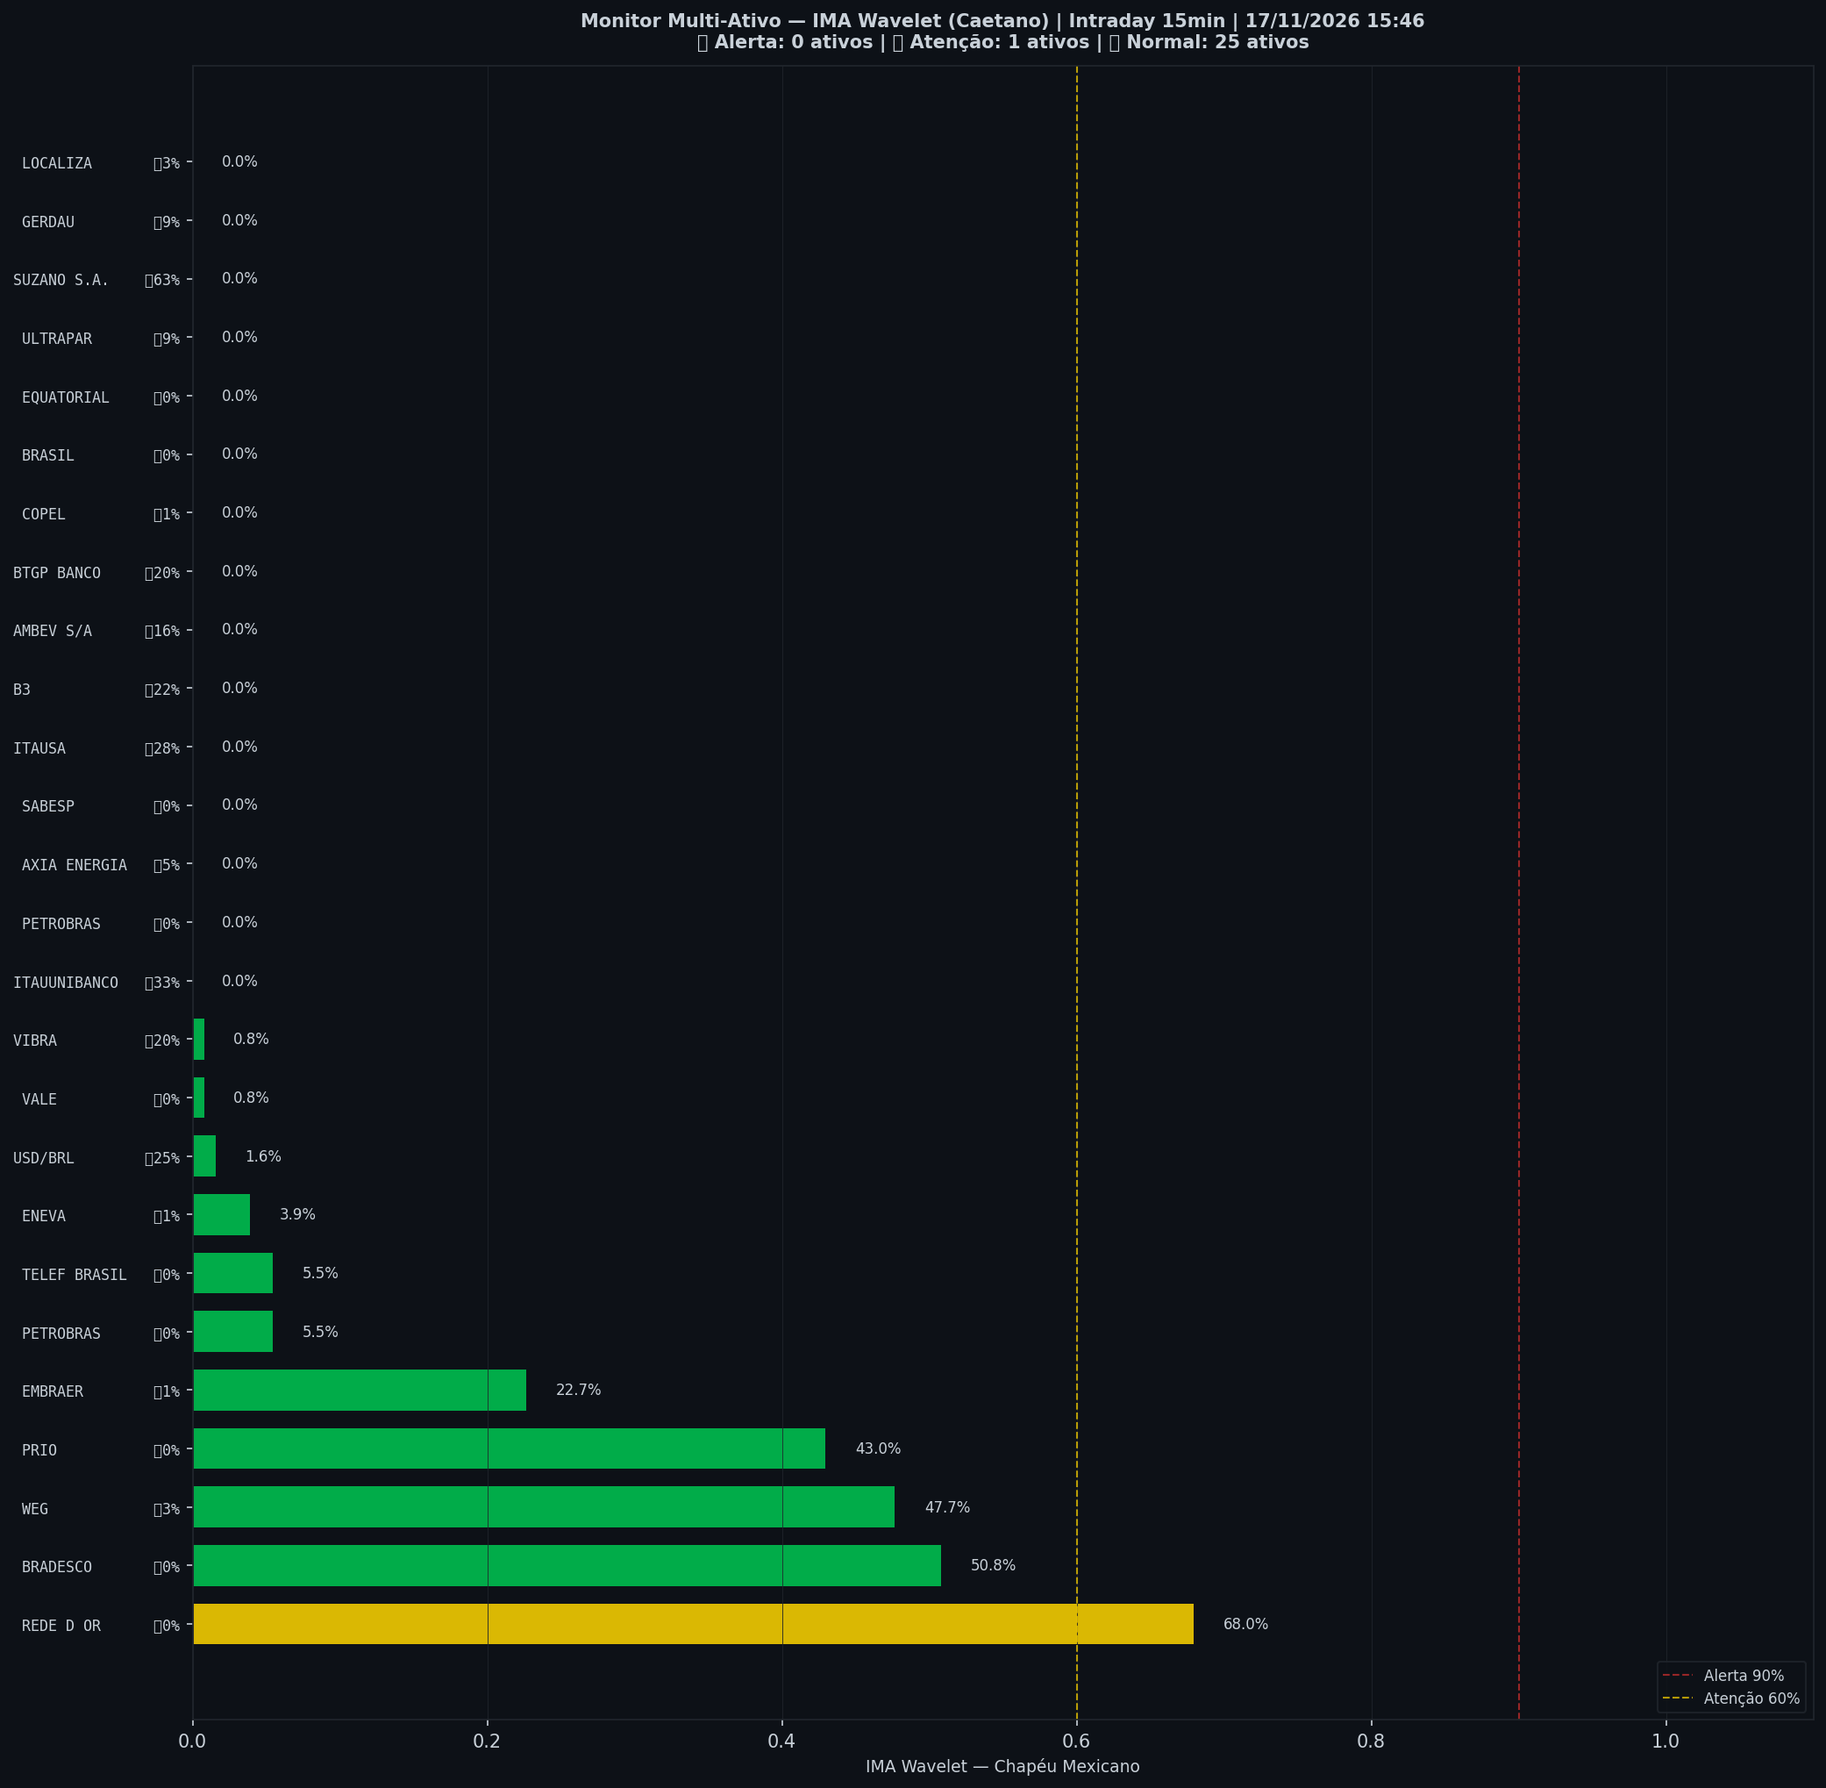
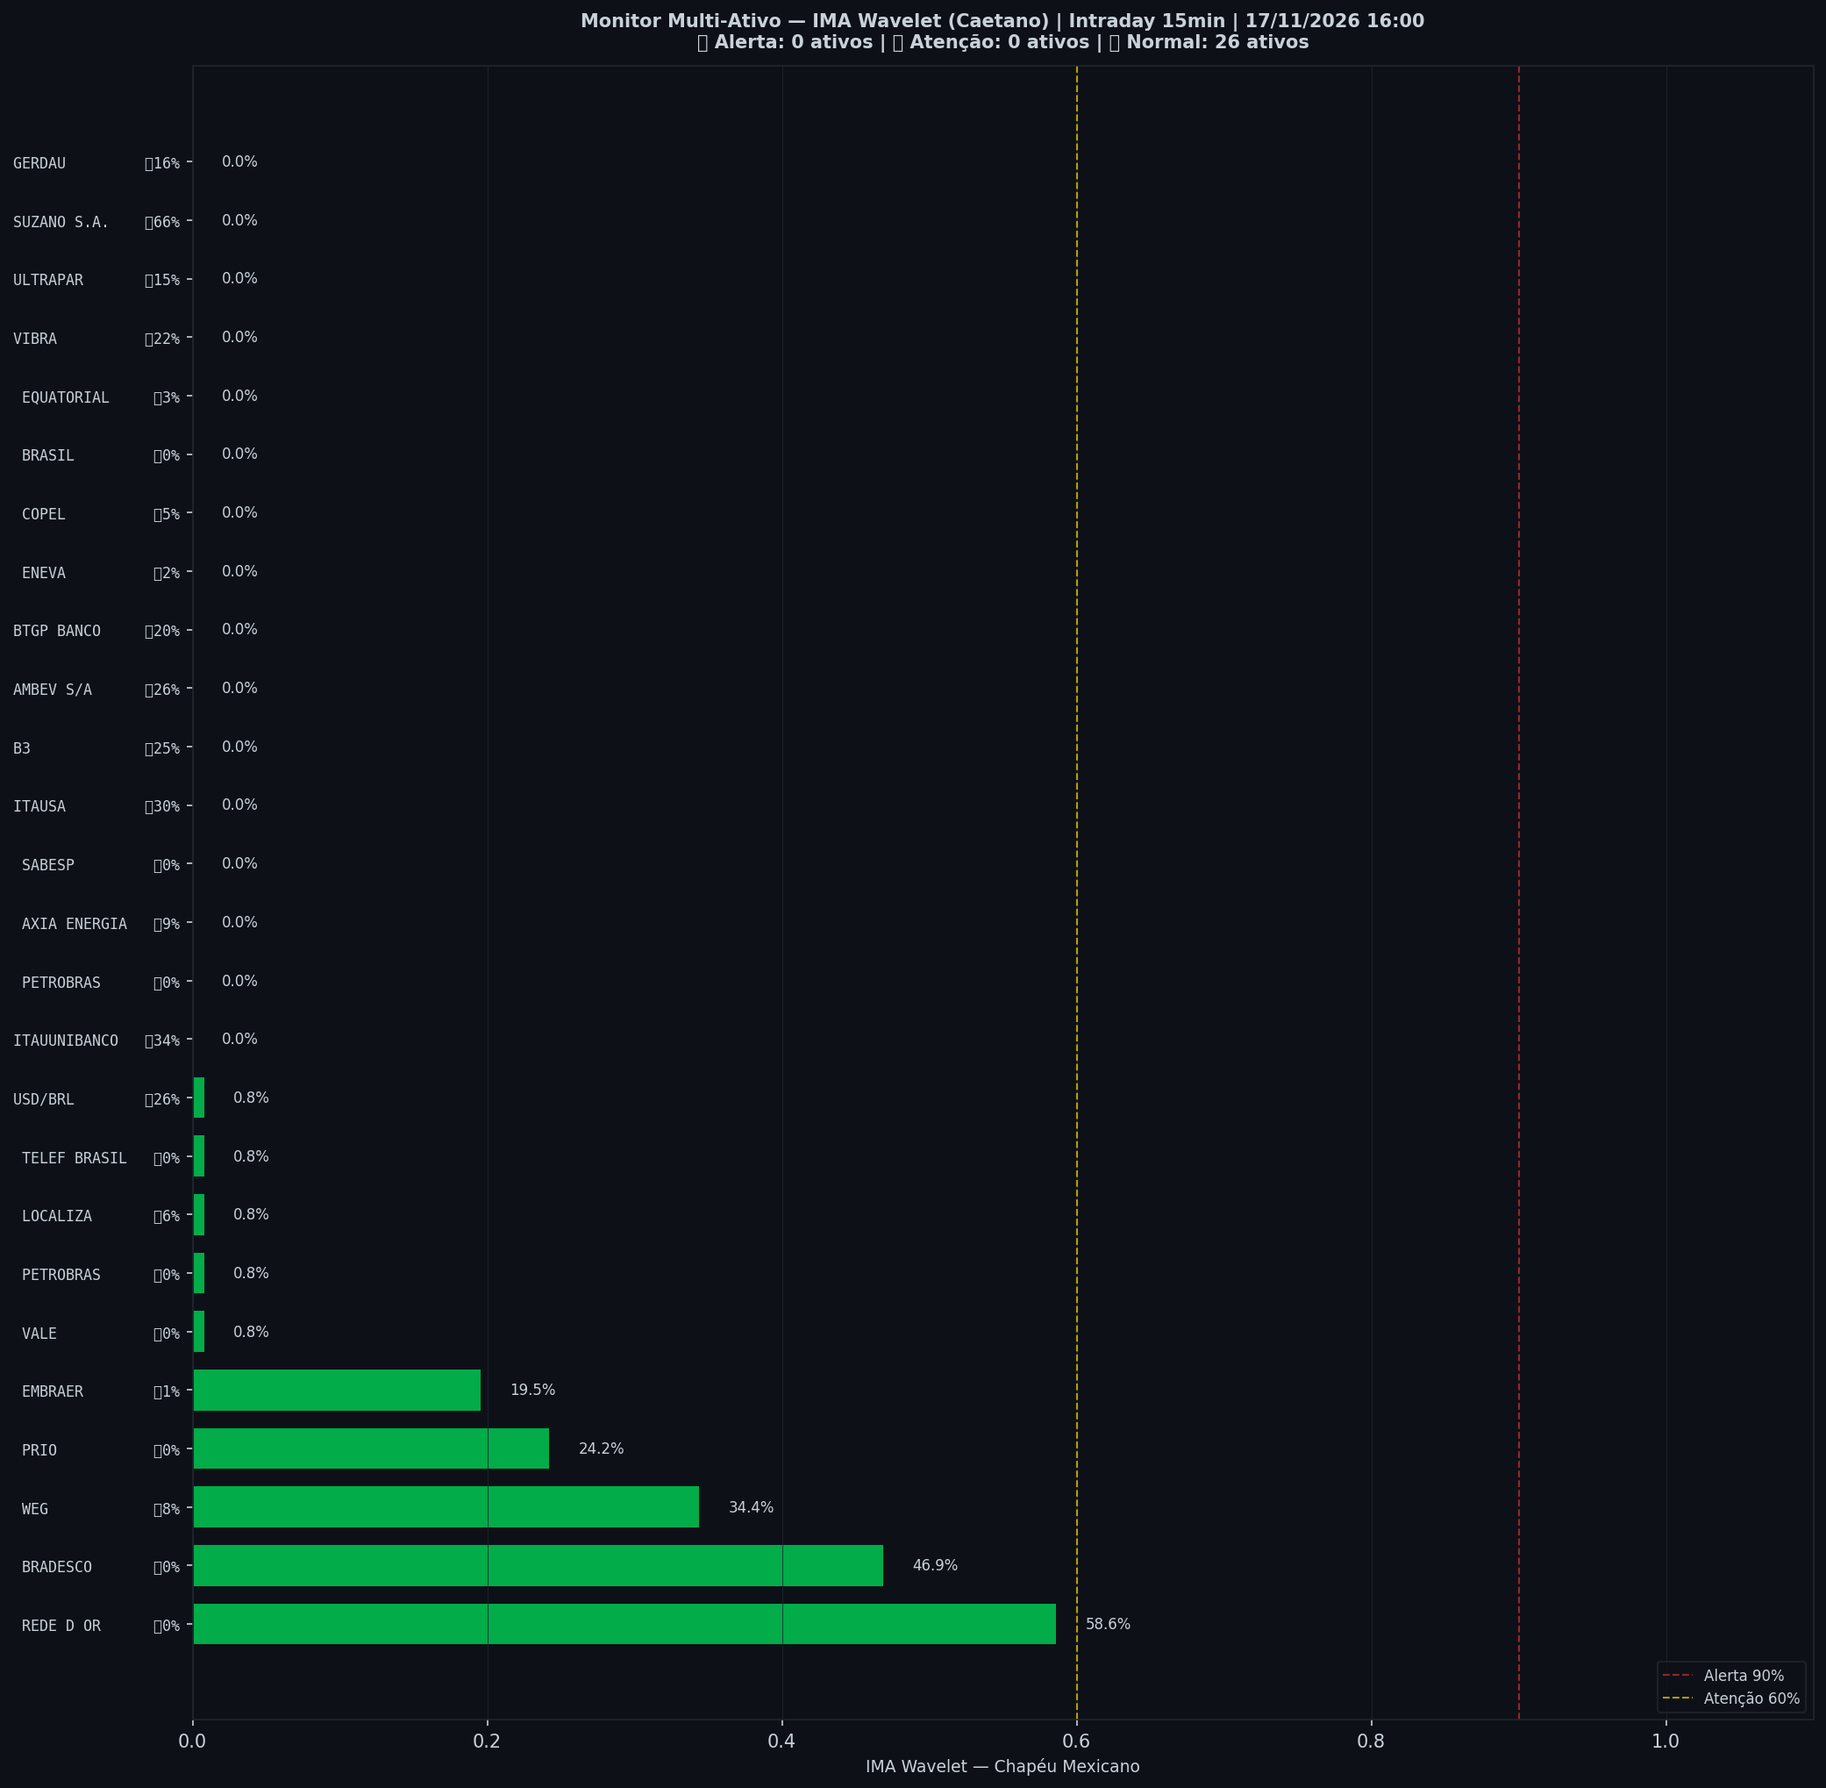
🤖 Auto: Sinal 17/11/2026 16:01

diff --git a/content/intraday/2026-11-17.md b/content/intraday/2026-11-17.md
@@ -1,11 +1,11 @@
 ---
-title: "🟢 Intraday 17/11/2026 15:30 BRT — VERDE"
+title: "🟢 Intraday 17/11/2026 15:45 BRT — VERDE"
 date: 2026-11-17
 tags: [intraday]
 ---
 
-> [!success] Onde o mercado está agora (17/11 15:30, candles de 15 min): **🟢 Calmo**
-> `Pânico ◀──────────●──────────▶ Euforia`
+> [!success] Onde o mercado está agora (17/11 15:45, candles de 15 min): **🟢 Calmo**
+> `Pânico ◀─────────●───────────▶ Euforia`
 >
 > O Ibovespa está dentro da sua faixa normal, sem excesso para cima nem para baixo.
 > No gráfico diário: 🌱 Fundo se desfazendo.
@@ -20,7 +20,7 @@ tags: [intraday]
 > | 📍 **Sinais** | hoje: nenhum sinal | [abrir](sinais-topo-fundo/) |
 > | 🧪 **Placar ao vivo** | 1 operação(ões), 0 com lucro, soma -0,8% | [abrir](operacoes/) |
 
-> [!success] IMA Intraday · 15 min (17/11 15:30): 🟢 **VERDE** — Risco 0% · ▼ -7 p.p. vs leitura anterior
+> [!success] IMA Intraday · 15 min (17/11 15:45): 🟢 **VERDE** — Risco 0% · ＝ +0 p.p. vs leitura anterior
 > `░░░░░░░░░░░░░░░░░░░░`
 > Preço na faixa normal em torno da tendência.
 
@@ -32,13 +32,13 @@ tags: [intraday]
 >
 > *Leitura educacional baseada em 26 anos de dados, não recomendação. [Como usar](../metodologia/crise#3-como-usar-na-prática).*
 
-| Indicador — IMA Intraday · 15 min (17/11 15:30) | Valor |
+| Indicador — IMA Intraday · 15 min (17/11 15:45) | Valor |
 |---|---|
 | 🔴 ζ Topo — preço esticado acima da tendência | **0%** |
-| 🔵 ζ Fundo — preço esticado abaixo da tendência | 4% |
+| 🔵 ζ Fundo — preço esticado abaixo da tendência | 9% |
 | 🫧 LPPL bolha — alta super-exponencial (risco de crash) | 0% |
 | 🫧 LPPL antibolha — queda super-exponencial (risco de repique) | 0% |
-| 📊 Ibovespa | 169.857 pts |
+| 📊 Ibovespa | 169.779 pts |
 
 ![Gráfico do sinal](../graficos/sinal_intraday.png)
 
@@ -46,6 +46,7 @@ tags: [intraday]
 
 | Data | Zona | Evento | Risco | ζ Topo | ζ Fundo | LPPL |
 |---|---|---|---|---|---|---|
+| 2026-11-17 15:45 | 🟢 VERDE |  | **0%** | 0% | 9% | 0% |
 | 2026-11-17 15:30 | 🟢 VERDE |  | **0%** | 0% | 4% | 0% |
 | 2026-11-17 15:15 | 🟢 VERDE |  | **7%** | 7% | 2% | 0% |
 | 2026-11-17 15:00 | 🟢 VERDE |  | **13%** | 13% | 0% | 0% |
@@ -75,51 +76,50 @@ tags: [intraday]
 | 2026-11-16 17:15 | 🟢 VERDE |  | **1%** | 1% | 🔪 **91%** | 0% |
 | 2026-11-16 17:00 | 🟢 VERDE |  | **1%** | 1% | 🔪 **93%** | 0% |
 | 2026-11-16 16:45 | 🟢 VERDE |  | **0%** | 0% | 🔪 **98%** | 0% |
-| 2026-11-16 16:30 | 🟢 VERDE |  | **0%** | 0% | 🔪 **98%** | 0% |
 
 <small>Destaques: 🟡 ≥ 60% · 🔴 ≥ 90% (Risco e ζ Topo) · 🔵 ≥ 60% · 🔪 ≥ 90% (ζ Fundo) · 🫧 ≥ 30% · 🫧🔴 ≥ 50% (LPPL)</small>
 
 ## Monitor Multi-Ativo
 
-**4% dos ativos em tensão** (0🔴 2🟡) · **1 com ζ Fundo alto** — quanto mais ativos disparam juntos, mais confiável o sinal.
+**0% dos ativos em tensão** (0🔴 1🟡) · **1 com ζ Fundo alto** — quanto mais ativos disparam juntos, mais confiável o sinal.
 
 > [!warning] Em destaque no multi-ativo
-> 🟡 **REDE D OR** ζ Topo 68% · 🔵 **SUZANO S.A.** ζ Fundo 63%
+> 🔵 **SUZANO S.A.** ζ Fundo 66%
 
 | Zona | Ativo | Setor | ζ Topo | ζ Fundo |
 |---|---|---|---|---|
-| 🟡 | **REDE D OR** | Saúde | 🟡 **68.0%** | 0.0% |
-| 🟢 | **SUZANO S.A.** | Papel/Celulose | 0.0% | 🔵 **63.3%** |
-| 🟢 | **BRADESCO** | Financeiro | 50.8% | 0.0% |
-| 🟡 | **WEG** | Industrial | 47.7% | 3.1% |
-| 🟢 | **PRIO** | Petróleo | 43.0% | 0.0% |
-| 🟢 | **ITAUUNIBANCO** | Financeiro | 0.0% | 32.8% |
-| 🟢 | **ITAUSA** | Financeiro | 0.0% | 28.1% |
-| 🟢 | **USD/BRL** | Câmbio | 1.6% | 25.0% |
-| 🟢 | **EMBRAER** | Outros | 22.7% | 0.8% |
-| 🟢 | **B3** | Financeiro | 0.0% | 21.9% |
-| 🟢 | **VIBRA** | Energia | 0.8% | 20.3% |
-| 🟢 | **BTGP BANCO** | Financeiro | 0.0% | 19.5% |
-| 🟢 | **AMBEV S/A** | Consumo | 0.0% | 16.4% |
-| 🟢 | **ULTRAPAR** | Outros | 0.0% | 9.4% |
-| 🟢 | **GERDAU** | Siderurgia | 0.0% | 9.4% |
-| 🟢 | **PETROBRAS** | Petróleo | 5.5% | 0.0% |
-| 🟢 | **TELEF BRASIL** | Outros | 5.5% | 0.0% |
-| 🟢 | **AXIA ENERGIA** | Energia | 0.0% | 4.7% |
-| 🟢 | **ENEVA** | Energia | 3.9% | 0.8% |
-| 🟢 | **LOCALIZA** | Aluguel | 0.0% | 3.1% |
+| 🟢 | **SUZANO S.A.** | Papel/Celulose | 0.0% | 🔵 **66.4%** |
+| 🟡 | **REDE D OR** | Saúde | 58.6% | 0.0% |
+| 🟢 | **BRADESCO** | Financeiro | 46.9% | 0.0% |
+| 🟢 | **WEG** | Industrial | 34.4% | 7.8% |
+| 🟢 | **ITAUUNIBANCO** | Financeiro | 0.0% | 33.6% |
+| 🟢 | **ITAUSA** | Financeiro | 0.0% | 29.7% |
+| 🟢 | **AMBEV S/A** | Consumo | 0.0% | 25.8% |
+| 🟢 | **USD/BRL** | Câmbio | 0.8% | 25.8% |
+| 🟢 | **B3** | Financeiro | 0.0% | 25.0% |
+| 🟢 | **PRIO** | Petróleo | 24.2% | 0.0% |
+| 🟢 | **VIBRA** | Energia | 0.0% | 21.9% |
+| 🟢 | **BTGP BANCO** | Financeiro | 0.0% | 20.3% |
+| 🟢 | **EMBRAER** | Outros | 19.5% | 0.8% |
+| 🟢 | **GERDAU** | Siderurgia | 0.0% | 16.4% |
+| 🟢 | **ULTRAPAR** | Outros | 0.0% | 14.8% |
+| 🟢 | **AXIA ENERGIA** | Energia | 0.0% | 9.4% |
+| 🟢 | **LOCALIZA** | Aluguel | 0.8% | 6.2% |
+| 🟢 | **COPEL** | Energia | 0.0% | 4.7% |
+| 🟢 | **EQUATORIAL** | Energia | 0.0% | 3.1% |
+| 🟢 | **ENEVA** | Energia | 0.0% | 1.6% |
 | 🟢 | **VALE** | Mineração | 0.8% | 0.0% |
-| 🟢 | **COPEL** | Energia | 0.0% | 0.8% |
+| 🟢 | **PETROBRAS** | Petróleo | 0.8% | 0.0% |
+| 🟢 | **TELEF BRASIL** | Outros | 0.8% | 0.0% |
 | 🟢 | **PETROBRAS** | Petróleo | 0.0% | 0.0% |
 | 🟢 | **SABESP** | Saneamento | 0.0% | 0.0% |
 | 🟢 | **BRASIL** | Financeiro | 0.0% | 0.0% |
-| 🟢 | **EQUATORIAL** | Energia | 0.0% | 0.0% |
 
 <small>Destaques: 🟡 ≥ 60% · 🔴 ≥ 90% (Risco e ζ Topo) · 🔵 ≥ 60% · 🔪 ≥ 90% (ζ Fundo) · 🫧 ≥ 30% · 🫧🔴 ≥ 50% (LPPL)</small>
 
 ![Monitor multi-ativo](../graficos/multi_intraday.png)
 
-*Página atualizada em 17/11/2026 15:46 BRT (leitura da barra de 2026-11-17 15:30 BRT).*
+*Página atualizada em 17/11/2026 16:00 BRT (leitura da barra de 2026-11-17 15:45 BRT).*
 
 > [!warning] O que este indicador não faz
 > Medido em 5 anos de Ibovespa, o ζ **não antecipa** topos nem fundos: a capacidade de separar o que sobe do que cai ficou em 0,49–0,52, e 0,50 é moeda jogada ao ar. Ele descreve o estado de agora; não é aviso do que vem. As zonas verde/amarelo/vermelho continuam na página como descrição desse estado — **não as use como sinal de entrada ou saída**.

diff --git a/content/index.md b/content/index.md
@@ -6,10 +6,10 @@ tags: [home]
 
 **As ondas do mercado, explicadas.** Leitura do Ibovespa com estatística de 26 anos, baseada no trabalho de pesquisadores e traders reconhecidos e adaptada por Jarbas Daniel da Costa.
 
-*Última atualização: 17/11/2026 15:46 BRT · Intraday 15min*
+*Última atualização: 17/11/2026 16:00 BRT · Intraday 15min*
 
-> [!success] Onde o mercado está agora (17/11 15:30, candles de 15 min): **🟢 Calmo**
-> `Pânico ◀──────────●──────────▶ Euforia`
+> [!success] Onde o mercado está agora (17/11 15:45, candles de 15 min): **🟢 Calmo**
+> `Pânico ◀─────────●───────────▶ Euforia`
 >
 > O Ibovespa está dentro da sua faixa normal, sem excesso para cima nem para baixo.
 > No gráfico diário: 🌱 Fundo se desfazendo.
@@ -44,26 +44,26 @@ tags: [home]
 > *Leitura educacional baseada em 26 anos de dados, não recomendação. [Como usar](metodologia/crise#3-como-usar-na-prática).*
 
 > [!info]- 🌊 Detalhes do Sinal IMA (indicadores e últimos 7 pregões)
-> > [!success] IMA Intraday · 15 min (17/11 15:30): 🟢 **VERDE** — Risco 0% · ▼ -7 p.p. vs leitura anterior
+> > [!success] IMA Intraday · 15 min (17/11 15:45): 🟢 **VERDE** — Risco 0% · ＝ +0 p.p. vs leitura anterior
 > > `░░░░░░░░░░░░░░░░░░░░`
 > > Preço na faixa normal em torno da tendência.
 >
 >
-> | Indicador — IMA Intraday · 15 min (17/11 15:30) | Valor |
+> | Indicador — IMA Intraday · 15 min (17/11 15:45) | Valor |
 > |---|---|
 > | 🔴 ζ Topo — preço esticado acima da tendência | **0%** |
-> | 🔵 ζ Fundo — preço esticado abaixo da tendência | 4% |
+> | 🔵 ζ Fundo — preço esticado abaixo da tendência | 9% |
 > | 🫧 LPPL bolha — alta super-exponencial (risco de crash) | 0% |
 > | 🫧 LPPL antibolha — queda super-exponencial (risco de repique) | 0% |
-> | 📊 Ibovespa | 169.857 pts |
+> | 📊 Ibovespa | 169.779 pts |
 >
-> **Multi-ativo:** 4% em tensão (0🔴 2🟡 de 26 ativos)
+> **Multi-ativo:** 0% em tensão (0🔴 1🟡 de 26 ativos)
 >
 > **Últimos 7 pregões**
 >
 > | Data | Zona | Risco | ζ Topo | ζ Fundo | LPPL |
 > |---|---|---|---|---|---|
-> | [17/11/2026](intraday/2026-11-17) | 🟢 VERDE | **0%** | 0% | 4% | 0% |
+> | [17/11/2026](intraday/2026-11-17) | 🟢 VERDE | **0%** | 0% | 9% | 0% |
 > | [16/11/2026](intraday/2026-11-16) | 🟢 VERDE | **0%** | 0% | 🔵 **74%** | 0% |
 >
 > <small>Destaques: 🟡 ≥ 60% · 🔴 ≥ 90% (Risco e ζ Topo) · 🔵 ≥ 60% · 🔪 ≥ 90% (ζ Fundo) · 🫧 ≥ 30% · 🫧🔴 ≥ 50% (LPPL)</small>

diff --git a/content/operacoes/entradas.md b/content/operacoes/entradas.md
@@ -31,7 +31,7 @@ description: "Compra depois de um sinal de fundo: Nadaraya no diário, semáforo
 > | Diário · Semáforo N3 após ζ Fundo | 07/07/26 a 172.021 | 10/08/26 a 172.021 | **+0,0%** | stop no preço de entrada |
 > | H4 · Semáforo N2 | 12/06/26 14h a 171.134 | 15/06/26 14h a 171.134 | **+0,0%** | stop no preço de entrada |
 >
-> <small>Atualizado 16/11 19:00 · checado no pregão às 15:45. Nota: ✅ passou no teste fora da amostra (walk-forward 2008–2026) · 🧪 em teste (H4, com aviso no Telegram) ou em observação (ζ, sem aviso) · 🧪 na tabela = operação do teste ao vivo.</small>
+> <small>Atualizado 16/11 19:00 · checado no pregão às 16:00. Nota: ✅ passou no teste fora da amostra (walk-forward 2008–2026) · 🧪 em teste (H4, com aviso no Telegram) ou em observação (ζ, sem aviso) · 🧪 na tabela = operação do teste ao vivo.</small>
 >
 > *Regras: depois de um sinal de fundo, o Diário entra quando o Nadaraya vira para cima; o Semanal e o H4 entram quando um fundo do semáforo fica fixo. Stop e saída de cada regra na [metodologia](metodologia/regras-de-operacao#entradas-do-método). Nenhuma regra de venda passou no teste. Os números do histórico têm viés de escolha (overfitting); o placar ao vivo é o que vale. Leitura educacional do método, não recomendação.*
 

diff --git a/content/integridade/index.md b/content/integridade/index.md
@@ -5,7 +5,7 @@ description: "O que foi conferido, contra qual fonte e quando — medido na hora
 tags: [integridade]
 ---
 
-*Pregão conferido: **16/11/2026**, com 59 tabelas no acervo · página gerada em 17/11/2026 15:46*
+*Pregão conferido: **16/11/2026**, com 59 tabelas no acervo · página gerada em 17/11/2026 16:00*
 
 O pregão conferido é o último **fechado e arquivado inteiro**, não o de hoje: enquanto o dia corre, só algumas tabelas estão gravadas, e conferir um dia pela metade produziria alarme falso.
 
@@ -19,7 +19,7 @@ Esta página não declara que o site está correto. Ela **mede** e escreve o res
 | Tabelas incompletas | **nenhuma** |
 | Tabelas sem alvo publicado pela B3 | 5 — não há como conferir |
 | Páginas publicadas | 351 |
-| Página escrita mais recentemente | 17/11 15:46 |
+| Página escrita mais recentemente | 17/11 16:00 |
 | Páginas sem data no cabeçalho | 8 — cegas para a conferência de dado |
 
 ## 1 · Acervo do boletim diário

diff --git a/content/historico.md b/content/historico.md
@@ -5,7 +5,7 @@ tags: [historico]
 
 # 📜 Histórico de leituras (v5)
 
-**2.436 leituras** desde 2026-07-03. Na página ficam os últimos 3 dias leitura por leitura e o resumo de cada dia anterior; o registro inteiro está no arquivo para baixar.
+**2.437 leituras** desde 2026-07-03. Na página ficam os últimos 3 dias leitura por leitura e o resumo de cada dia anterior; o registro inteiro está no arquivo para baixar.
 
 [**Baixar o histórico completo**](historico-completo.csv) (107 KB · abre no Excel e no LibreOffice)
 
@@ -16,6 +16,7 @@ tags: [historico]
 
 | Data | Modo | Zona | Risco | IMA | LPPL |
 |---|---|---|---|---|---|
+| 2026-11-17 15:45 | intraday | 🟢 VERDE | 0% | 0% | 0% |
 | 2026-11-17 15:30 | intraday | 🟢 VERDE | 0% | 0% | 0% |
 | 2026-11-17 15:15 | intraday | 🟢 VERDE | 7% | 7% | 0% |
 | 2026-11-17 15:00 | intraday | 🟢 VERDE | 13% | 13% | 0% |

diff --git a/content/operacoes/ranking.md b/content/operacoes/ranking.md
@@ -5,7 +5,7 @@ tags: [operacoes]
 description: "As regras de compra do site ordenadas pelo resultado, com treino, teste e placar ao vivo"
 ---
 
-*Atualizado 17/11/2026 15:46 · histórico simulado com as regras congeladas em 23/10/2026 + placar ao vivo.*
+*Atualizado 17/11/2026 16:00 · histórico simulado com as regras congeladas em 23/10/2026 + placar ao vivo.*
 
 As regras de compra do site, **da que mais rendeu para a que menos rendeu**. O resultado é por operação, no índice à vista, sem custos e sem juros compostos (a soma é só a soma das operações). **Treino** = entradas de 2001 a 2013 e **teste** = 2014 em diante: uma regra só é confiável se ganhou nos dois. O único resultado sem nenhum ajuste ao histórico é o **placar ao vivo**.
 

diff --git a/content/linha-do-tempo/index.md b/content/linha-do-tempo/index.md
@@ -5,7 +5,7 @@ description: "Todo sinal, ordem, stop e aviso do Pêndulo de Mercado, do mais re
 tags: [eventos]
 ---
 
-*Atualizada 17/11/2026 15:46 BRT · a cada 15 min no pregão e às 19h.*
+*Atualizada 17/11/2026 16:00 BRT · a cada 15 min no pregão e às 19h.*
 
 Tudo o que o sistema fez ou detectou, **do mais recente para o mais antigo**: sinais de topo e fundo, ordens de compra e de venda armadas, compras, vendas, stops, avisos de 🚨 preço perto do nível e mudanças do Sinal IMA. Os **últimos 7 dias** ficam abertos; o resto, por **ano → mês → dia**.
 

diff --git a/content/avisos/index.md b/content/avisos/index.md
@@ -2,7 +2,7 @@
 title: "⚠ Avisos: o que saber antes de usar os números"
 ---
 
-*Gerado em 17/11/2026 15:46*
+*Gerado em 17/11/2026 16:00*
 
 Este site publica muitos números, e cada um tem uma limitação que importa na hora de
 decidir. As limitações estão escritas nas próprias páginas, mas quem chega direto numa
